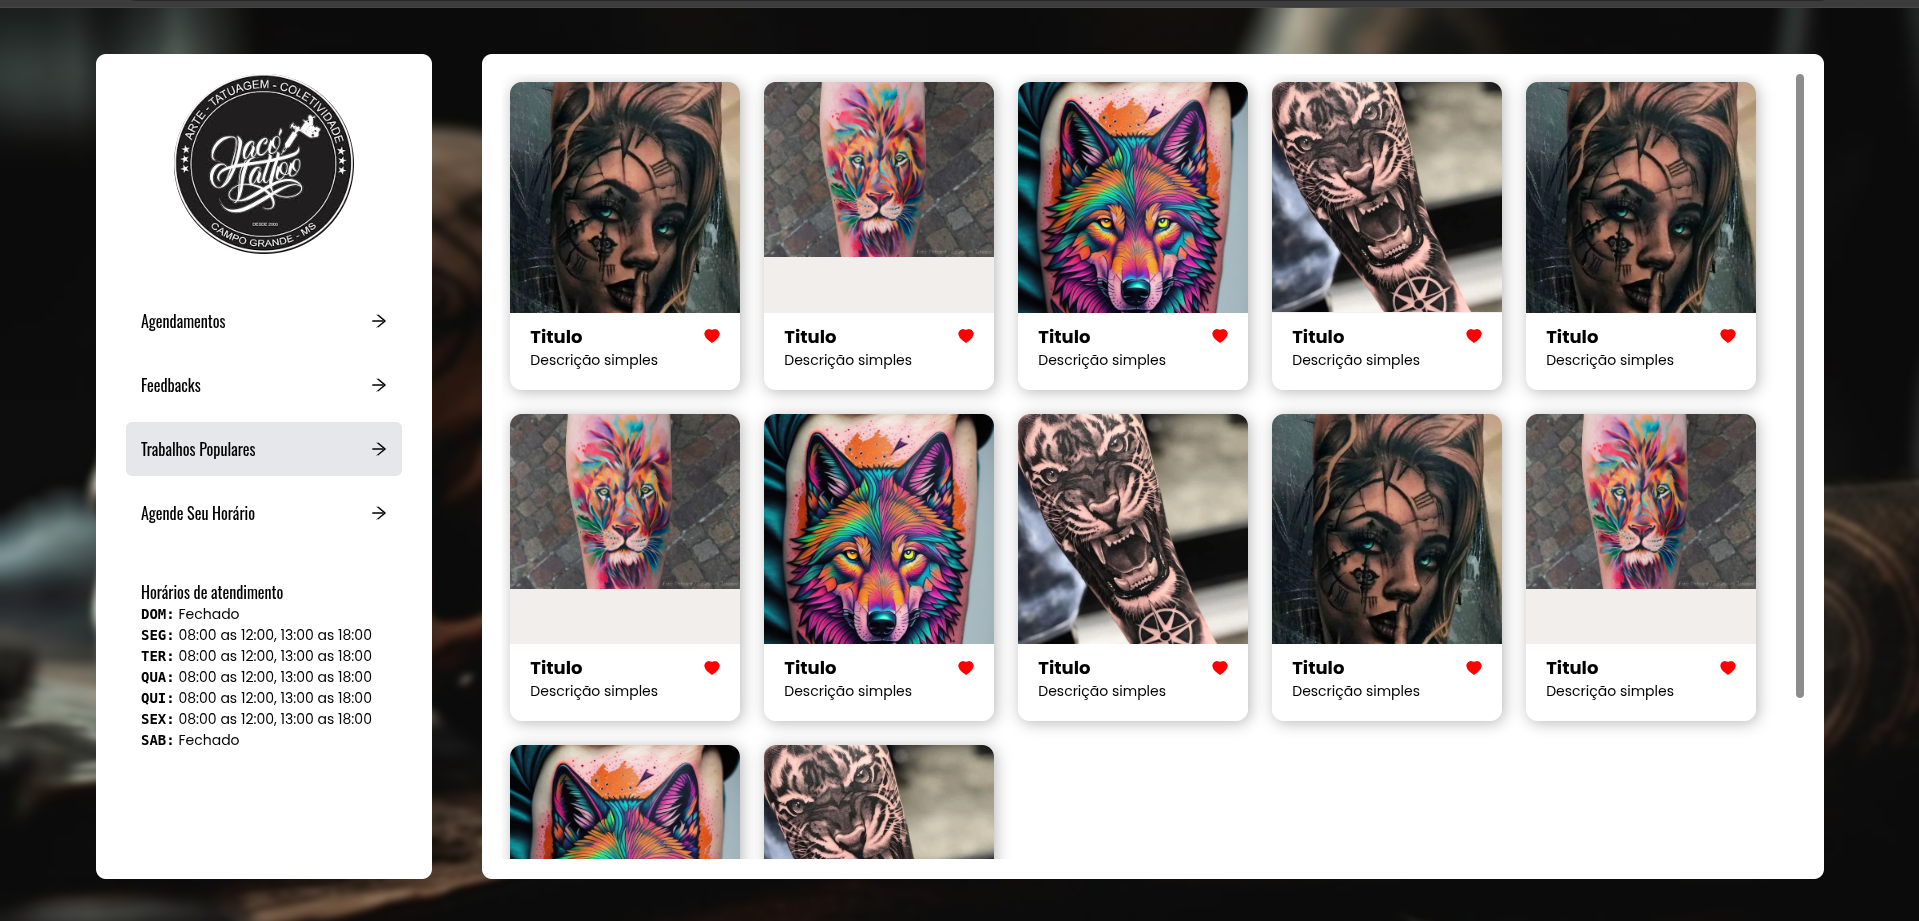
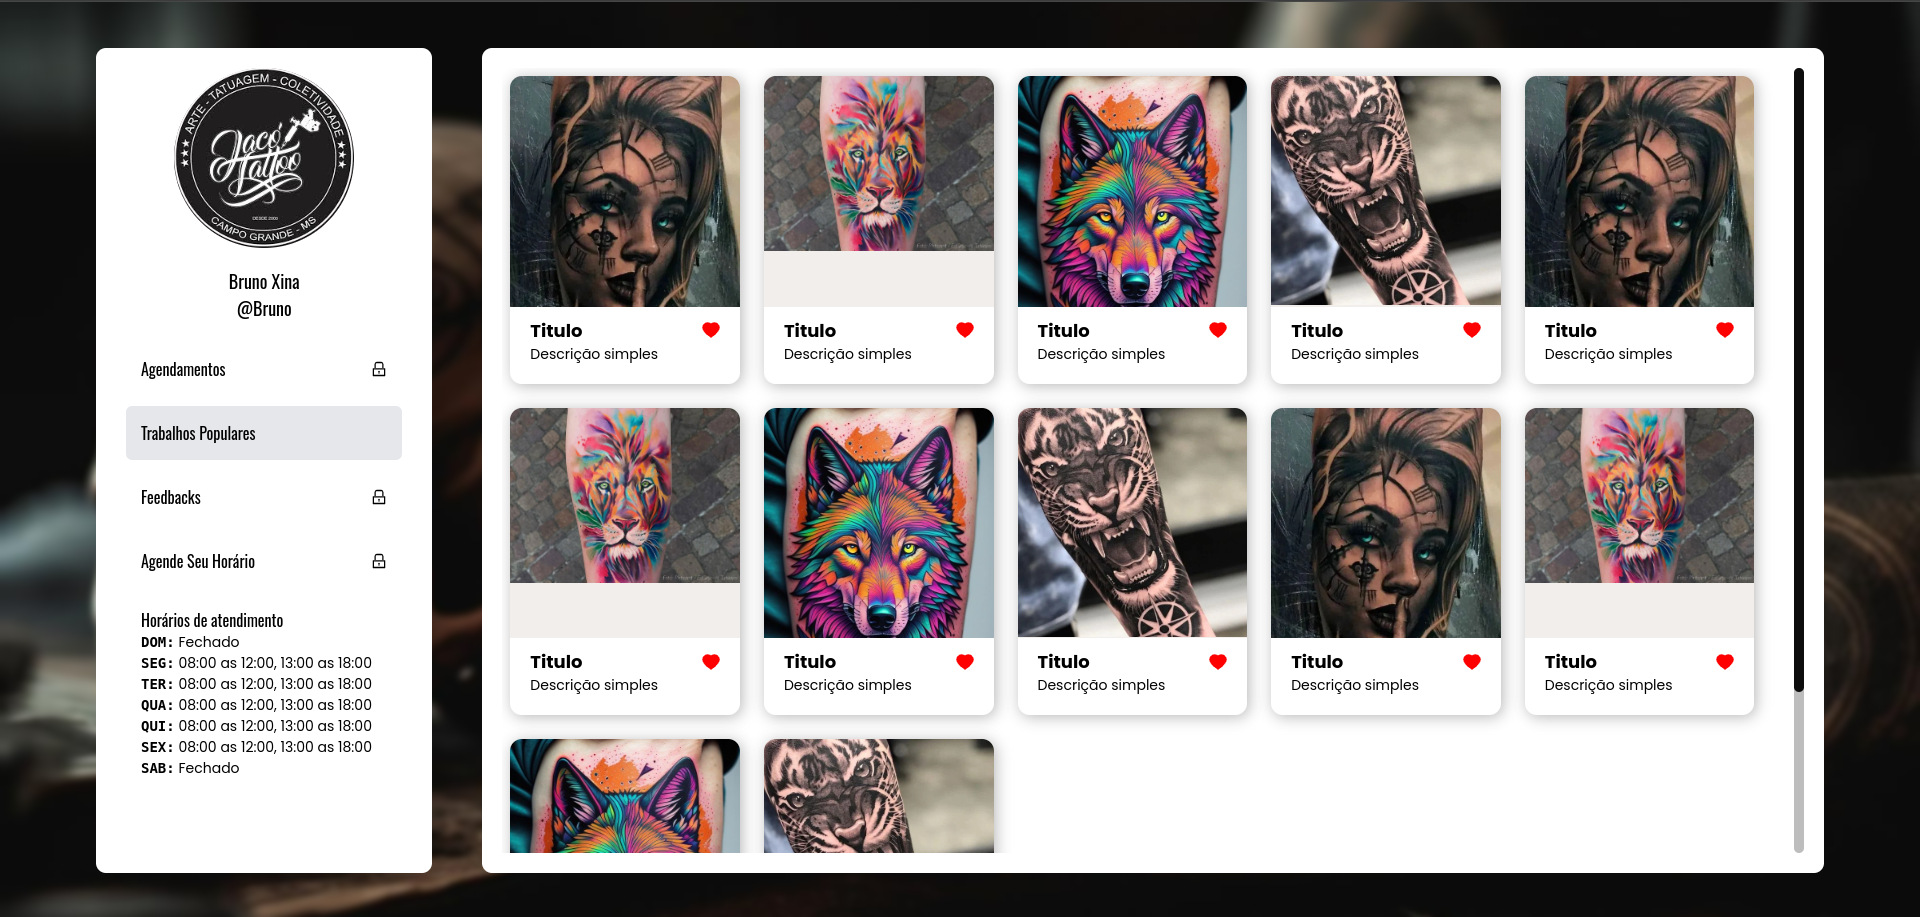
feat(page-profile-me): create layout and integrate with backend

diff --git a/src/pages/profiles/tattoo-artist/components/left-box/left-box.tsx b/src/pages/profiles/tattoo-artist/components/left-box/left-box.tsx
@@ -1,4 +1,5 @@
-import { ArrowRightOutlined } from "@ant-design/icons";
+import { useState } from "react";
+import SelectTab from "../../../../../components/sidebar/select-tab";
 import { SchedulingTimes, TattooArtist } from "../../../../../types/tattoo-artist.type";
 import { TattooArtistProfileComponentsUI } from "../styles";
 import { SchedulingTime } from "./scheduling-times";
@@ -12,6 +13,7 @@ export interface ILeftBox {
 
 export const LeftBox = (props: ILeftBox) => {
   const { artist } = props;
+  const [tabSelected, setTabSelect] = useState<string>("populary-jobs");
 
   const getScheduling = (schedulings: SchedulingTimes[] | undefined) => {
     let result = "Fechado";
@@ -25,9 +27,17 @@ export const LeftBox = (props: ILeftBox) => {
     return result;
   };
 
-  const worksStyle = props.content == "tattoo-list" ? "bg-gray-200" : "";
-  const agendamentosStyle = props.content == "agendamentos" ? "bg-gray-200" : "";
-  const feedbacks = props.content == "Feedbacks" ? "bg-gray-200" : "";
+  const teste: React.CSSProperties = { background: "rgb(229 231 235 / var(--tw-bg-opacity, 1))" };
+
+  const popularyJobs = (blocked: boolean) =>
+    tabSelected == "populary-jobs" && blocked ? teste : { cursor: "default" };
+  const schedulings = (blocked: boolean) => (tabSelected == "schedulings" && blocked ? teste : { cursor: "default" });
+  const feedbacks = (blocked: boolean) => (tabSelected == "feedbacks" && blocked ? teste : { cursor: "default" });
+  const horario = (blocked: boolean) => (tabSelected == "horario" && blocked ? teste : { cursor: "default" });
+
+  const onClick = (value: string) => {
+    setTabSelect(value);
+  };
 
   return (
     <div
@@ -35,14 +45,13 @@ export const LeftBox = (props: ILeftBox) => {
         display: "flex",
         flexDirection: "column",
         alignItems: "center",
-        gap: "40px",
+        gap: "20px",
         width: "100%",
         height: "100%",
       }}
     >
       <div style={{ background: "#8d8d8d", height: "180px", width: "180px", borderRadius: "50%", overflow: "hidden" }}>
         <img
-          // src="https://cdn.pixabay.com/photo/2015/10/05/22/37/blank-profile-picture-973460_1280.png"
           src="https://encrypted-tbn0.gstatic.com/images?q=tbn:ANd9GcQaDn4pdIrIiSa0yJAIlDj4aHIOEpQbbYinYg&s"
           alt="profile-img"
           style={{ height: "180px", width: "180px" }}
@@ -54,59 +63,26 @@ export const LeftBox = (props: ILeftBox) => {
           padding: "0px 10px",
           display: "flex",
           flexDirection: "column",
+          alignItems: "center",
+        }}
+      >
+        <p style={{ fontSize: "18px" }}>{props.artist?.name}</p>
+        <p style={{ fontSize: "18px", fontWeight: "normal" }}>@{props.artist?.name.split(" ")[0]}</p>
+      </div>
+      <div
+        style={{
+          width: "100%",
+          padding: "0px 10px",
+          display: "flex",
+          flexDirection: "column",
           justifyContent: "flex-start",
           gap: "10px",
         }}
       >
-        <div
-          style={{
-            display: "flex",
-            justifyContent: "space-between",
-            cursor: "pointer",
-            padding: "15px 15px",
-            borderRadius: "6px",
-          }}
-          className="hover:bg-gray-200"
-        >
-          Agendamentos <ArrowRightOutlined />
-        </div>
-        <div
-          style={{
-            display: "flex",
-            justifyContent: "space-between",
-            cursor: "pointer",
-            padding: "15px 15px",
-            borderRadius: "6px",
-          }}
-          className="hover:bg-gray-200"
-        >
-          Feedbacks <ArrowRightOutlined />
-        </div>
-        <div
-          style={{
-            display: "flex",
-            justifyContent: "space-between",
-            cursor: "pointer",
-            padding: "15px 15px",
-            borderRadius: "6px",
-          }}
-          className={"hover:bg-gray-200"}
-        >
-          Trabalhos Populares <ArrowRightOutlined />
-        </div>
-        <div
-          style={{
-            display: "flex",
-            justifyContent: "space-between",
-            cursor: "pointer",
-            padding: "15px 15px",
-            borderRadius: "6px",
-          }}
-          className={"hover:bg-gray-200"}
-        >
-          Agende Seu Horário <ArrowRightOutlined />
-        </div>
-        {/* <ButtonComponent></ButtonComponent> */}
+        <SelectTab style={schedulings(false)} blocked label="Agendamentos" />
+        <SelectTab style={popularyJobs(true)} label="Trabalhos Populares" />
+        <SelectTab style={feedbacks(true)} blocked label="Feedbacks" />
+        <SelectTab style={horario(true)} blocked label="Agende Seu Horário" />
       </div>
       <div
         style={{

diff --git a/src/pages/profiles/me/components/left-box/left-box.tsx b/src/pages/profiles/me/components/left-box/left-box.tsx
@@ -1,3 +1,5 @@
+import { useState } from "react";
+import SelectTab from "../../../../../components/sidebar/select-tab";
 import { User } from "../../../../../types/user.type";
 import { TattooArtistProfileComponentsUI } from "../styles";
 
@@ -9,14 +11,65 @@ export interface ILeftBox {
 
 export const LeftBox = (props: ILeftBox) => {
   const { profileInfo } = props;
-  console.log("PROFILE: ", profileInfo);
+  const [tabSelected, setTabSelect] = useState<string>("favorites");
+
+  const teste: React.CSSProperties = { background: "rgb(229 231 235 / var(--tw-bg-opacity, 1))" };
+
+  const favorites = (blocked: boolean) => (tabSelected == "favorites" && blocked ? teste : { cursor: "default" });
+  const myInfo = (blocked: boolean) => (tabSelected == "my-info" && blocked ? teste : { cursor: "default" });
+  const horarios = (blocked: boolean) => (tabSelected == "horarios" && blocked ? teste : { cursor: "default" });
+  const historico = (blocked: boolean) => (tabSelected == "historico" && blocked ? teste : { cursor: "default" });
+
+  const onClick = (value: string) => {
+    setTabSelect(value);
+  };
+
   return (
-    <div style={{ background: "#8d8d8d", height: "150px", width: "150px", borderRadius: "50%", overflow: "hidden" }}>
-      <img
-        src="https://cdn.pixabay.com/photo/2015/10/05/22/37/blank-profile-picture-973460_1280.png"
-        alt="profile-img"
-        style={{ height: "150px", width: "150px" }}
-      />
+    <div
+      style={{
+        display: "flex",
+        flexDirection: "column",
+        alignItems: "center",
+        gap: "40px",
+        width: "100%",
+        height: "100%",
+        padding: "8px",
+      }}
+    >
+      <div style={{ background: "#8d8d8d", height: "180px", width: "180px", borderRadius: "50%", overflow: "hidden" }}>
+        <img
+          src="https://png.pngtree.com/png-clipart/20231019/original/pngtree-user-profile-avatar-png-image_13369989.png"
+          alt="profile-img"
+          style={{ height: "180px", width: "180px" }}
+        />
+      </div>
+      <div
+        style={{
+          width: "100%",
+          padding: "0px 10px",
+          display: "flex",
+          flexDirection: "column",
+          alignItems: "center",
+        }}
+      >
+        <p style={{ fontSize: "18px" }}>{props.profileInfo?.name}</p>
+        <p style={{ fontSize: "18px", fontWeight: "normal" }}>@{props.profileInfo?.name.split(" ")[0]}</p>
+      </div>
+      <div
+        style={{
+          width: "100%",
+          padding: "0px 10px",
+          display: "flex",
+          flexDirection: "column",
+          justifyContent: "flex-start",
+          gap: "10px",
+        }}
+      >
+        <SelectTab style={myInfo(false)} blocked label="Informações do Perfil" />
+        <SelectTab onClick={() => onClick("favorites")} style={favorites(true)} label="Meu Favoritos" />
+        <SelectTab style={horarios(false)} blocked label="Horarios Agendados" />
+        <SelectTab style={historico(false)} blocked label="Histórico" />
+      </div>
     </div>
   );
 };

diff --git a/src/index.css b/src/index.css
@@ -7,45 +7,30 @@
 @tailwind components;
 
 :root {
-    /* Luxury */
-    --luxury-black: #000000;
-    --luxury-dark-grey: #252626;
-    --luxury-red: #991a00;
-    --luxury-light-grey: #dcdcdc;
-    --luxury-white: #ffffff;
-
     /* Elegance */
     --elegance-dark-brown: #734930;
     --elegance-brown: #bf8a6b;
     --elegance-light-brown: #d9c6ba;
-    --elegance-off-white: #f2eeeb;
-    /* --elegance-off-white: #f2f2f2; */
+    --elegance-off-white: #f2f2f2;
     --elegance-black: #0d0d0d;
 }
 
 ::-webkit-scrollbar {
-    width: 8px;
-    height: 8px;
+    width: 10px;
+    height: 10px;
 }
 
 /* Fundo da barra */
 ::-webkit-scrollbar-track {
-    /* background: #0d0d0d; */
-    background: rgba(0, 0, 0, 1);
+    background: #bdbdbd;
+    border-radius: 8px;
 }
 
 /* Barra em si */
 ::-webkit-scrollbar-thumb {
-    /* background: #8d8d8d; */
-    background-color: #bf8a6b;
+    background-color: var(--elegance-black);
     border-radius: 10px;
-    border: 3px solid transparent
-        /* border: 3px solid #0d0d0d; */
-}
-
-/* Ao passar o mouse */
-::-webkit-scrollbar-thumb:hover {
-    background-color: #bf8a6b;
+    /* border: 1px solid #bdbdbd */
 }
 
 * {

diff --git a/src/components/sidebar/select-tab/index.tsx b/src/components/sidebar/select-tab/index.tsx
@@ -1,0 +1,45 @@
+import { LockOutlined } from "@ant-design/icons";
+
+interface ISelectTab {
+  blocked?: boolean;
+  label: string;
+  style?: React.CSSProperties;
+  onClick?: () => void;
+}
+
+export default function SelectTab(props: ISelectTab) {
+  if (props.blocked)
+    return (
+      <div
+        style={{
+          display: "flex",
+          justifyContent: "space-between",
+          cursor: "pointer",
+          padding: "15px 15px",
+          borderRadius: "6px",
+          textTransform: "capitalize",
+          ...props.style,
+        }}
+        onClick={props.onClick}
+      >
+        {props.label} <LockOutlined />
+      </div>
+    );
+
+  return (
+    <div
+      style={{
+        display: "flex",
+        justifyContent: "space-between",
+        cursor: "pointer",
+        padding: "15px 15px",
+        borderRadius: "6px",
+        ...props.style,
+      }}
+      onClick={props.onClick}
+      className={"hover:bg-gray-200"}
+    >
+      {props.label}
+    </div>
+  );
+}

diff --git a/src/pages/profiles/me/components/right-box/tattoos-list/tattoo-list.tsx b/src/pages/profiles/me/components/right-box/tattoos-list/tattoo-list.tsx
@@ -8,7 +8,7 @@ export function TattooList() {
 
   const loadTattoos = () => {
     TattooGateway.list()
-      .then((res) => setTattoos(res))
+      .then((res) => setTattoos([...res, ...res, ...res]))
       .catch((err) => console.log("Failed on load tattoos: ", err));
   };
 
@@ -18,9 +18,18 @@ export function TattooList() {
   useEffect(() => loadTattoos(), []);
 
   return (
-    <div style={{ display: "flex", gap: "1.5rem" }}>
+    <div
+      style={{
+        display: "flex",
+        gap: "1.5rem",
+        padding: "8px",
+        flexWrap: "wrap",
+        overflowY: "scroll",
+        scrollbarColor: "white",
+      }}
+    >
       {tattoos.map((tattoo, index) => (
-        <TattooCard index={index} content={tattoo} style={{ height: "45%", width: "20%" }} />
+        <TattooCard index={index} content={tattoo} style={{ height: "40%", width: "18%" }} />
       ))}
     </div>
   );

diff --git a/src/infra/gateways/users/users.gateway.ts b/src/infra/gateways/users/users.gateway.ts
@@ -1,12 +1,13 @@
 import { User } from "../../../types/user.type";
 import { Gateway } from "../Gateway";
-import { Data, ITattoo } from "../tattoos/tattoo.interface";
+import { Data } from "../tattoos/tattoo.interface";
+import { InfoMe } from "./users.interface";
 
 class UserGatewayInfra {
   async getInfoMe(): Promise<User> {
-    return await Gateway.request<Data<ITattoo[]>>({
+    return await Gateway.request<Data<InfoMe>>({
       method: "GET",
-      url: "/profiles/me",
+      url: "/users/me",
       headers: {
         Authorization: `Bearer ${localStorage.getItem("token")}`,
       },

diff --git a/src/pages/profiles/me/components/right-box/right-box.tsx b/src/pages/profiles/me/components/right-box/right-box.tsx
@@ -1,12 +1,9 @@
-import { TattooArtistProfileComponentsUI } from "../styles";
 import { TattooList } from "./tattoos-list/tattoo-list";
-
-const { Container } = TattooArtistProfileComponentsUI;
 
 interface IRigthBox {
   content: string;
 }
 
-export const RigthBox = (props: IRigthBox) => {
+export const RigthBox = (_props: IRigthBox) => {
   return <TattooList />;
 };

diff --git a/src/infra/gateways/users/users.interface.ts b/src/infra/gateways/users/users.interface.ts
@@ -1,0 +1,5 @@
+export interface InfoMe {
+  id: number;
+  name: string;
+  email: string;
+}

diff --git a/README.md b/README.md
@@ -6,3 +6,4 @@
 ![](./images/readme/section-one-ampliada.png)
 ![](./images/readme/tattoo-artist-profile.png)
 ![](./images/readme/tattoo-list.png)
+![](./images/readme/profile-me.png)
